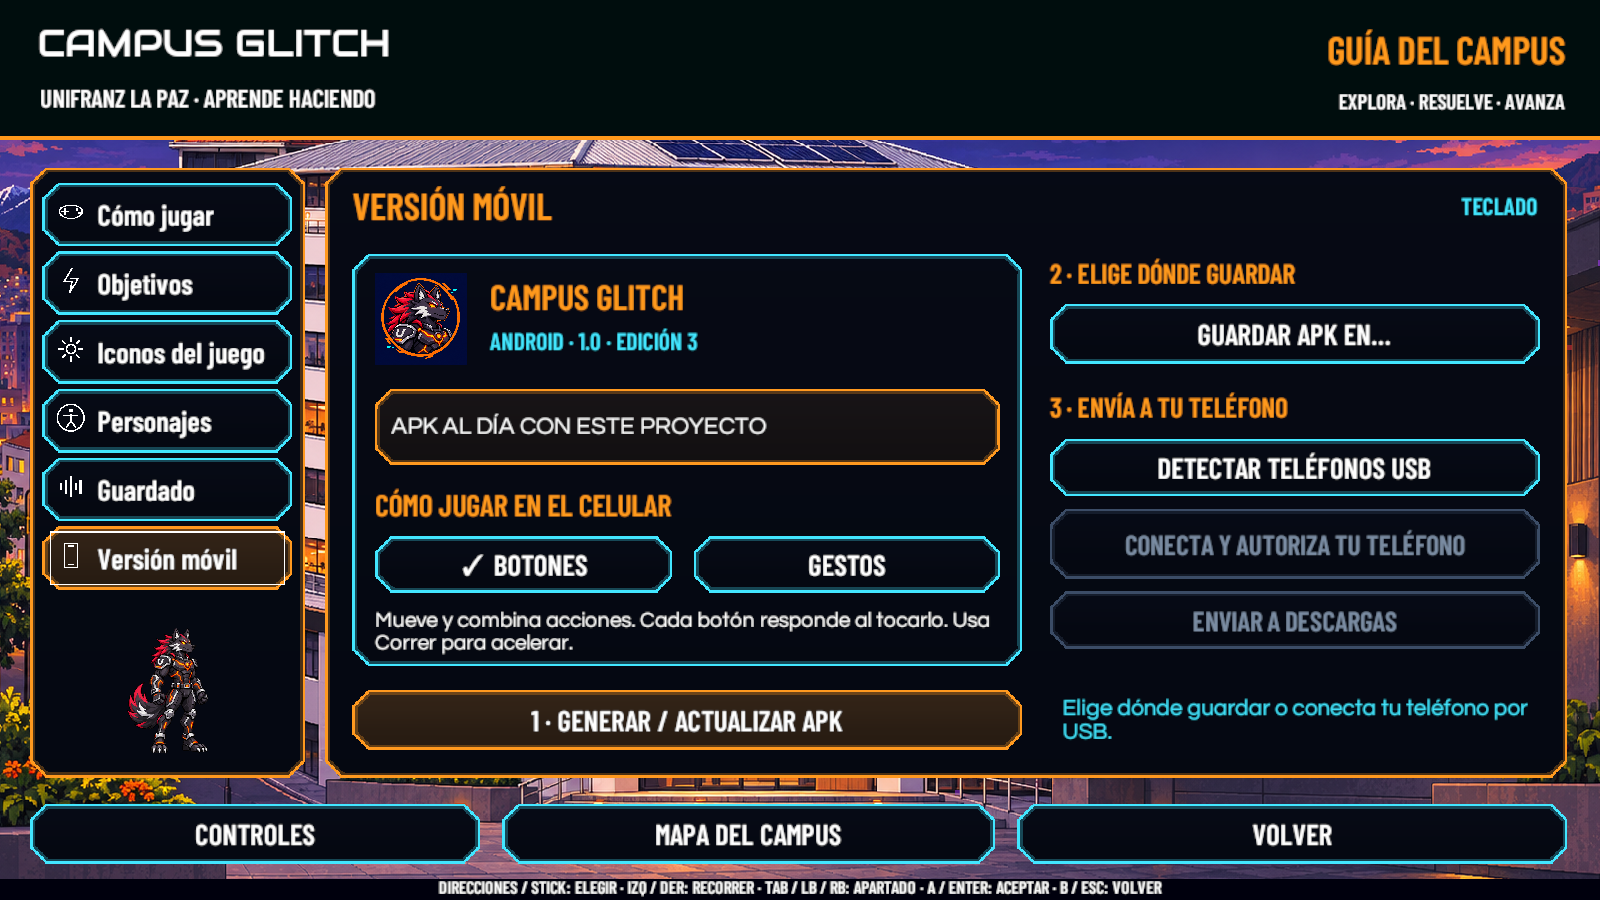
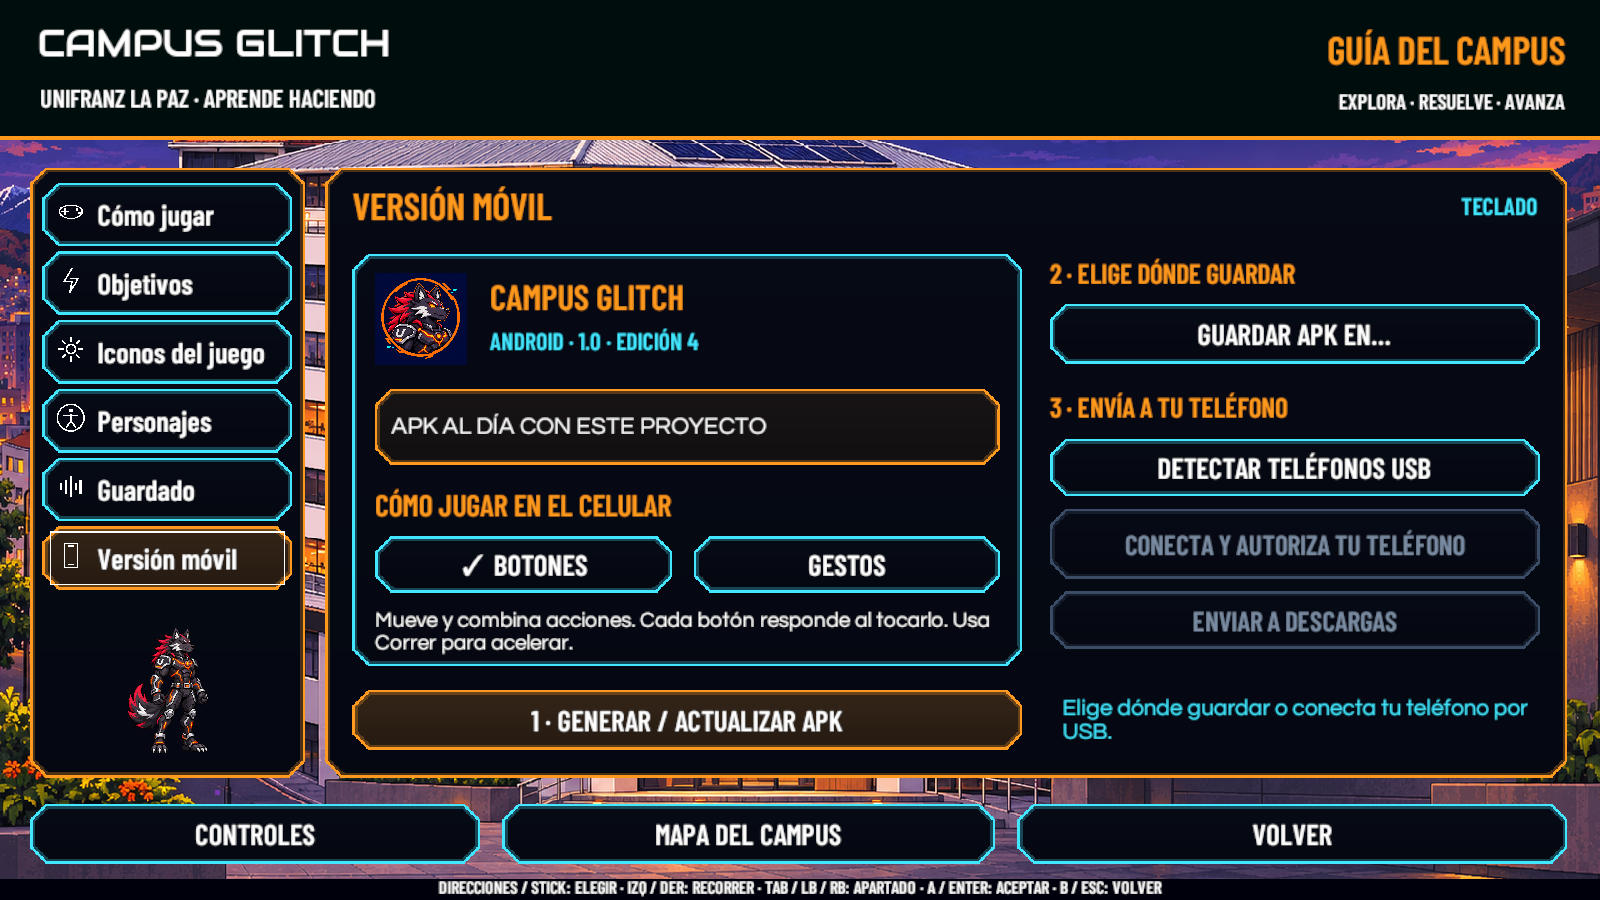
VERIFICACION ANDROID: confirmar exportacion sin maquetas antiguas

diff --git a/Docs/QA/MOVIL_2026_11_10.md b/Docs/QA/MOVIL_2026_11_10.md
@@ -24,7 +24,7 @@ La inspección completa encontró avisos de componentes de la maqueta antigua in
 
 ## Edición final y guardado desde la interfaz
 
-La edición final 1.0, código **3**, se generó con 0 errores y 213 advertencias en 7 min 49 s. Incluye los ajustes finales de selección, entrada táctil e imágenes. La firma y los seis iconos se comprobaron otra vez. Se conservó la edición anterior hasta terminar correctamente la nueva.
+La edición previa 1.0, código **3**, se generó con 0 errores y 213 advertencias en 7 min 49 s. Incluye los ajustes finales de selección, entrada táctil e imágenes. La firma y los seis iconos se comprobaron otra vez. Se conservó la edición anterior hasta terminar correctamente la nueva.
 
 Se abrió **Guardar APK en…** desde Play mediante el ratón, se eligió Descargas en el selector nativo de Windows y el menú confirmó la copia. Ambos archivos coinciden por SHA-256. También se pulsó Detectar teléfonos USB desde el juego; respondió sin dispositivos de depuración disponibles y mantuvo desactivado el envío. No se instaló nada ni se copió a un teléfono. El selector de carpeta está comprobado en el Editor de Windows; falta repetirlo en el ejecutable Windows actualizado.
 
@@ -43,3 +43,9 @@ La simulación táctil restaura las preferencias originales sin guardarlas. Unit
 Se detectaron componentes serializados de las maquetas antiguas que no pertenecen al mundo construido al jugar. `CGBuildPreviewFilter` retira únicamente las tres raíces conocidas de presentación del Editor en la copia de escena utilizada por el build. Los archivos de escena y la vista antes de Play se conservan.
 
 La comprobación aislada retiró las tres raíces con sus hijos, mantuvo dos objetos ajenos y sus hijos y confirmó que el callback sin build no altera la escena. Los 18 archivos de escena conservaron su SHA-256 durante la comprobación. No se ejecutaron recorridos de niveles.
+
+## Actualización del 11 de noviembre: edición 4
+
+La exportación con el filtro terminó **Succeeded, 0 errores y 22 advertencias**, en 3 min 04 s; APK de **100,1 MiB**, versión **1.0 (4)**. Los avisos de componentes de la maqueta anterior ya no aparecen. Los 18 archivos de escena conservan exactamente su SHA-256 anterior; no se regeneró ni reescribió ninguna escena.
+
+Se repitieron las verificaciones de identidad, iconos y firma con las herramientas Android del SDK. La copia de Descargas se actualizó a la edición 4 y coincide con la APK final por SHA-256. El reporte y la imagen de Scene se renovaron. Las capturas de Play y del diseño táctil corresponden a la edición 3, cuyo funcionamiento de interfaz es el mismo; el cambio de la edición 4 afecta al contenido retirado durante la exportación.
